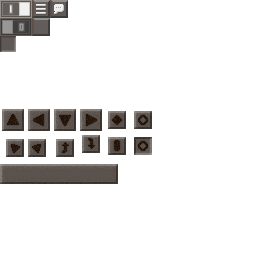
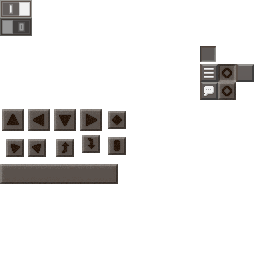
options rework and more

diff --git a/source/client/gui/components/OptionList.cpp b/source/client/gui/components/OptionList.cpp
@@ -150,23 +150,26 @@ void OptionList::initDefaultMenu()
 #define HEADER(text) do { m_items.push_back(new OptionHeader(0, text)); currentIndex++; } while (0)
 #define OPTION(name) do { pOptions->name.addGuiElement(m_items, pOptions->name.getName()); currentIndex++; } while (0)
 
-void OptionList::initVideoMenu()
+void OptionList::initGameplayMenu()
 {
 	Options* pOptions = m_pMinecraft->getOptions();
-	int currentIndex = 0;
-	(void)currentIndex;
+	int currentIndex = -1;
 
-	OPTION(m_viewDistance);
+	HEADER(Util::EMPTY_STRING);
+
+	HEADER("Audio");
+	OPTION(m_musicVolume);
+	OPTION(m_masterVolume);
+
+	HEADER("Game");
+	OPTION(m_difficulty);
 	OPTION(m_thirdPerson);
-	OPTION(m_ambientOcclusion);
-	OPTION(m_fancyGraphics);
-	OPTION(m_viewBobbing);
-	OPTION(m_anaglyphs);
-	OPTION(m_blockOutlines);
-	OPTION(m_fancyGrass);
-	OPTION(m_biomeColors);
-	OPTION(m_hideGui);
-	OPTION(m_dynamicHand);
+	OPTION(m_serverVisibleDefault);
+
+#ifndef FEATURE_NETWORKING
+	m_items[currentIndex]->setEnabled(false);
+#endif
+	(void)currentIndex; // compiler will warn about an unused variable sometimes if this isn't here
 }
 
 void OptionList::initControlsMenu()
@@ -175,44 +178,53 @@ void OptionList::initControlsMenu()
 	int currentIndex = -1;
 	int idxSplit = -1, idxController = -1;
 
-	OPTION(m_autoJump);
+	HEADER(Util::EMPTY_STRING);
+
+	HEADER("Controls");
+	OPTION(m_sensitivity);
 	OPTION(m_invertMouse);
 	OPTION(m_splitControls); idxSplit = currentIndex;
+	//OPTION(m_swapJumpSneak);
+	//OPTION(m_buttonSize);
+	OPTION(m_autoJump);
 	OPTION(m_bUseController); idxController = currentIndex;
+
+	/*HEADER("Feedback");
+	OPTION(m_vibrate);*/
+
+	HEADER("Experimental");
 	OPTION(m_flightHax);
-	OPTION(m_sensitivity);
 
 	if (!m_pMinecraft->isTouchscreen())
 		m_items[idxSplit]->setEnabled(false);
 	m_items[idxController]->setEnabled(false);
 }
 
-void OptionList::initGameplayMenu()
-{
-	Options* pOptions = m_pMinecraft->getOptions();
-	int currentIndex = -1;
-
-	OPTION(m_difficulty);
-	OPTION(m_serverVisibleDefault);
-
-	HEADER(Util::EMPTY_STRING);
-
-	HEADER("Music & Sounds");
-	OPTION(m_musicVolume);
-	OPTION(m_masterVolume);
-
-#ifndef FEATURE_NETWORKING
-	m_items[currentIndex]->setEnabled(false);
-#endif
-	(void)currentIndex; // compiler will warn about an unused variable sometimes if this isn't here
-}
-
-void OptionList::initMiscMenu()
+void OptionList::initVideoMenu()
 {
 	Options* pOptions = m_pMinecraft->getOptions();
 	int currentIndex = -1;
 	int idxPano = -1;
 
+	HEADER(Util::EMPTY_STRING);
+
+	HEADER("Graphics");
+	//OPTION(m_brigtness);
+	OPTION(m_viewDistance);
+	//OPTION(m_antiAliasing);
+	OPTION(m_guiScale);
+	//OPTION(m_fov);
+	OPTION(m_ambientOcclusion);
+	OPTION(m_fancyGraphics);
+	OPTION(m_viewBobbing);
+	OPTION(m_anaglyphs);
+	OPTION(m_blockOutlines);
+	OPTION(m_fancyGrass);
+	OPTION(m_biomeColors);
+	OPTION(m_dynamicHand);
+
+	HEADER("Experimental");
+	OPTION(m_hideGui);
 	OPTION(m_debugText);
 	OPTION(m_b2dTitleLogo);
 #ifdef ENH_MENU_BACKGROUND

diff --git a/source/client/gui/screens/OptionsScreen.cpp b/source/client/gui/screens/OptionsScreen.cpp
@@ -13,16 +13,15 @@
 #ifndef OLD_OPTIONS_SCREEN
 
 #define MIN_CATEGORY_BUTTON_ID 1
-#define MAX_CATEGORY_BUTTON_ID 4
+#define MAX_CATEGORY_BUTTON_ID 3
 #define BACK_BUTTON_ID 100
 
 OptionsScreen::OptionsScreen() :
 	m_pList(nullptr),
 	m_currentCategory(OC_MIN),
-	m_videoButton(MIN_CATEGORY_BUTTON_ID, "Video"),
-	m_controlsButton(MIN_CATEGORY_BUTTON_ID + 1, "Controls"),
-	m_gameplayButton(MIN_CATEGORY_BUTTON_ID + 2, "Gameplay"),
-	m_miscButton(MAX_CATEGORY_BUTTON_ID, "Misc"),
+	m_gameplayButton(MIN_CATEGORY_BUTTON_ID, "Gameplay..."),
+	m_controlsButton(MIN_CATEGORY_BUTTON_ID + 1, "Controls..."),
+	m_videoButton(MIN_CATEGORY_BUTTON_ID + 2, "Video..."),
 	m_backButton(BACK_BUTTON_ID, "Done")
 {
 	m_bRenderPointer = true;
@@ -66,7 +65,7 @@ void OptionsScreen::init()
 
 	m_pList = new OptionList(m_pMinecraft, m_width, m_height, 28, m_height - 28);
 	
-	Button* tabButtons[] = { &m_videoButton, &m_controlsButton, &m_gameplayButton, &m_miscButton };
+	Button* tabButtons[] = { &m_gameplayButton, &m_controlsButton, &m_videoButton};
 	constexpr int NUM_CATEGORY_BUTTONS = sizeof(tabButtons) / sizeof(tabButtons[0]);
 	int buttonWidth = 64;
 	int buttonHeight = 20;
@@ -126,17 +125,14 @@ void OptionsScreen::setCategory(OptionsCategory category)
 
 	switch (category)
 	{
-	case OC_VIDEO:
-		m_pList->initVideoMenu();
+	case OC_GAMEPLAY:
+		m_pList->initGameplayMenu();
 		break;
 	case OC_CONTROLS:
 		m_pList->initControlsMenu();
 		break;
-	case OC_GAMEPLAY:
-		m_pList->initGameplayMenu();
-		break;
-	case OC_MISCELLANEOUS:
-		m_pList->initMiscMenu();
+	case OC_VIDEO:
+		m_pList->initVideoMenu();
 		break;
 	default:
 		break;

diff --git a/source/client/player/input/TouchscreenInput_TestFps.cpp b/source/client/player/input/TouchscreenInput_TestFps.cpp
@@ -241,6 +241,7 @@ void TouchscreenInput_TestFps::tick(Player* pPlayer)
 				break;
 
 			case 100 + INPUT_FORWARDLEFT:
+				if (m_bForwardBeingHeld)
 				{
 					bForwardPressed = true;
 					m_vertInput += 1.0f;
@@ -248,6 +249,7 @@ void TouchscreenInput_TestFps::tick(Player* pPlayer)
 				}
 				break;
 			case 100 + INPUT_FORWARDRIGHT:
+				if (m_bForwardBeingHeld)
 				{
 					bForwardPressed = true;
 					m_vertInput += 1.0f;
@@ -336,7 +338,7 @@ static void RenderTouchButton(Tesselator* t, PolygonArea* pArea, int srcX, int s
 
 void TouchscreenInput_TestFps::render(float f)
 {
-	std::string gui = "gui/custom.png";
+	std::string gui = "gui/gui_custom.png";
 	if (!m_pMinecraft->m_pResourceLoader->hasTexture(gui))
 		gui = "gui/gui_custom.png";
 

diff --git a/source/client/gui/screens/OptionsScreen.hpp b/source/client/gui/screens/OptionsScreen.hpp
@@ -16,13 +16,12 @@
 #include "../components/OptionList.hpp"
 enum OptionsCategory
 {
-	OC_VIDEO,
-	OC_CONTROLS,
 	OC_GAMEPLAY,
-	OC_MISCELLANEOUS,
+	OC_CONTROLS,
+	OC_VIDEO,
 
-	OC_MIN = OC_VIDEO,
-	OC_MAX = OC_MISCELLANEOUS,
+	OC_MIN = OC_GAMEPLAY,
+	OC_MAX = OC_VIDEO,
 	OC_COUNT
 };
 
@@ -50,10 +49,9 @@ private:
 	OptionList* m_pList;
 	OptionsCategory m_currentCategory;
 
-	Button m_videoButton;
-	Button m_controlsButton;
 	Button m_gameplayButton;
-	Button m_miscButton;
+	Button m_controlsButton;
+	Button m_videoButton;
 
 	Button m_backButton;
 };

diff --git a/source/client/gui/components/WorldSelectionList.cpp b/source/client/gui/components/WorldSelectionList.cpp
@@ -188,7 +188,7 @@ void WorldSelectionList::commit()
 		/*std::stringstream ss;
 		ss << item.m_levelName << "/preview.png";*/
 
-		m_previewImages.push_back("gui/default_world.png");
+		m_previewImages.push_back("/pack.png");
 
 		std::vector<std::string> vs;
 		vs.push_back(item.m_levelName);

diff --git a/source/client/gui/components/OptionList.hpp b/source/client/gui/components/OptionList.hpp
@@ -32,7 +32,6 @@ public:
 	void initVideoMenu();
 	void initControlsMenu();
 	void initGameplayMenu();
-	void initMiscMenu();
 
 private:
 	int m_selectedItem;
